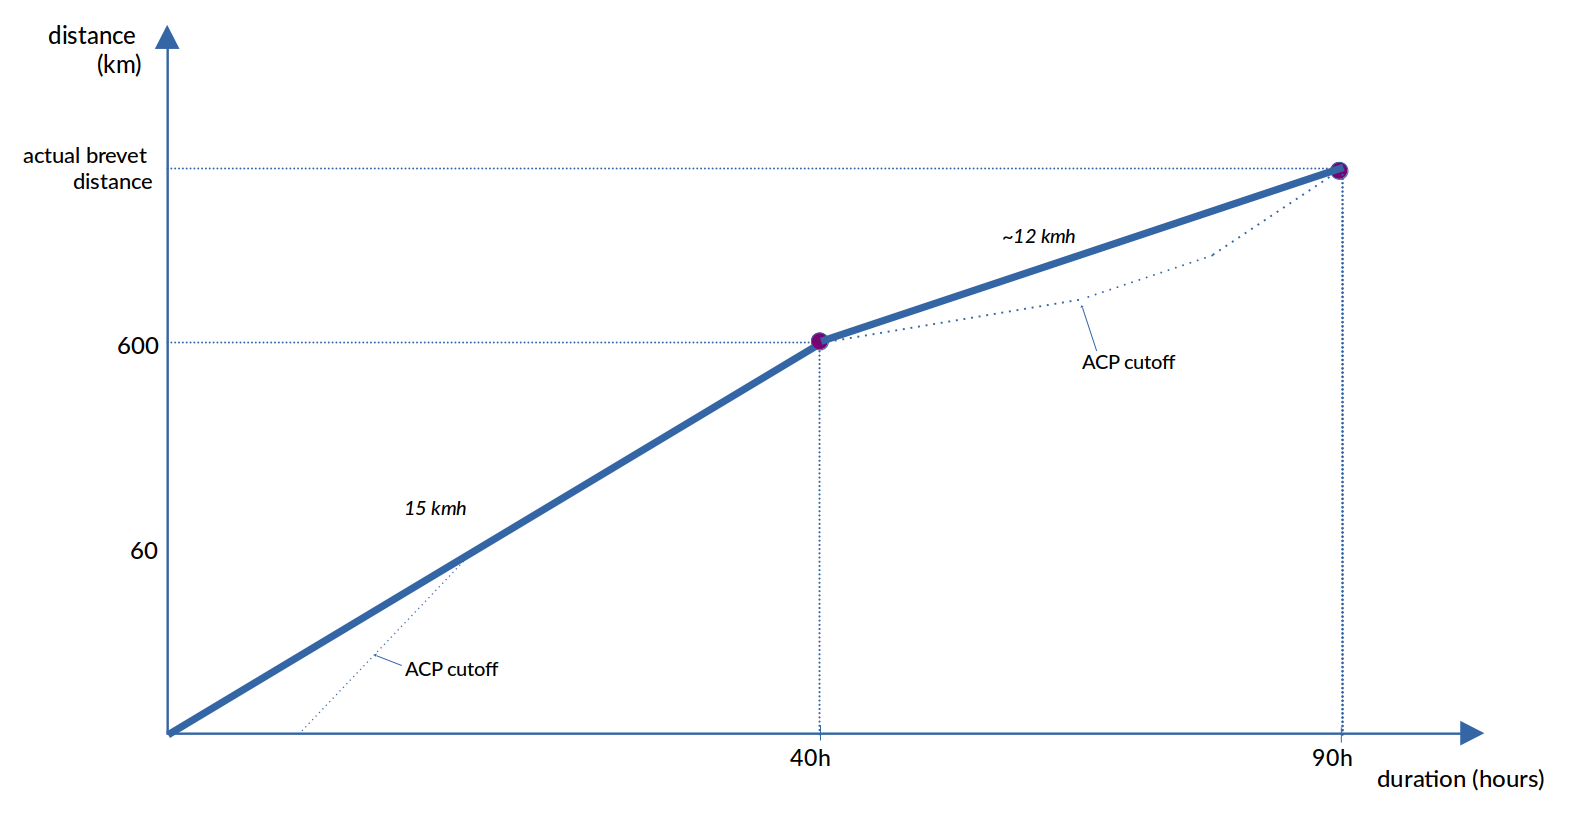
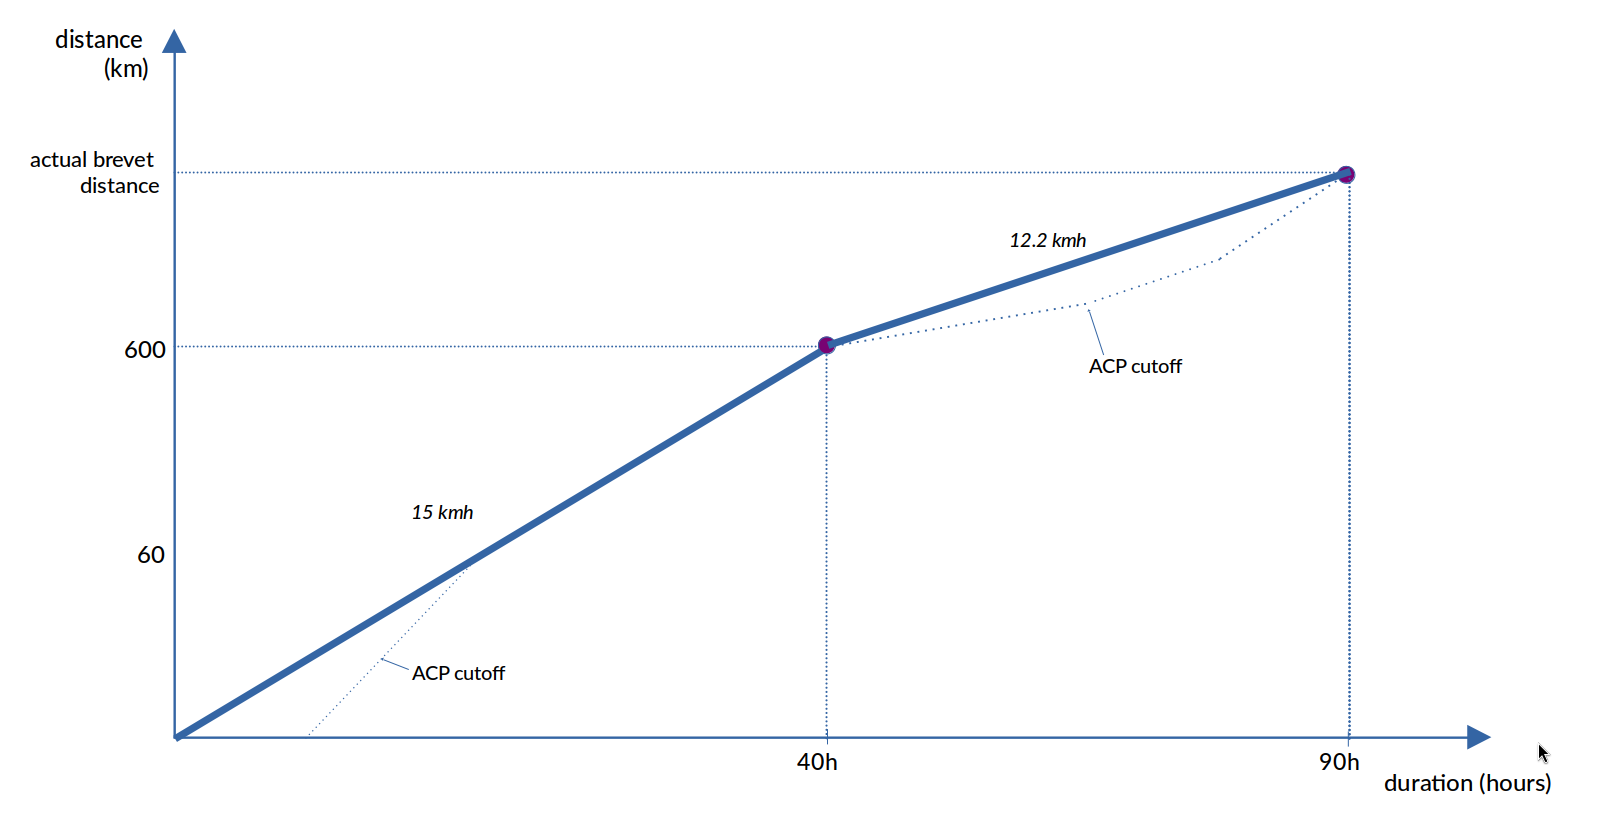
update documentation: chatgpt smoothing

diff --git a/docs/UI.md b/docs/UI.md
@@ -1,81 +1,96 @@
-# WPX frontend
+# WPX Frontend
 
 ![](./images/overview.png)
 
 ### Set Time Parameters
 
-  - **Start Time:** Set the date and time. An accurate start date helps label the days correctly on the elevation profile for rides passing midnight.
-  - **Speed:** The speed controls the cutoff time computation. It is set to 15.0 kmh by default. 
-  - **End Time:** This can be adjusted to match the official brevet cutoff. This will recalculate the average speed accordingly.
+- **Start Time:** Set the start date and time. An accurate start date ensures that days are labelled correctly on the elevation profile for rides that continue past midnight.
+- **Speed:** The speed parameter controls the cutoff-time calculation. The default value is 15.0 km/h.
+- **End Time:** This can be adjusted to match the official brevet cutoff. The average speed is then recalculated automatically.
 
-*Note: The computed closing times for each control may not perfectly match the official organization times, but they should be very close.*
+*Note: Computed control closing times may not exactly match the official organizer-provided times, but they should be quite close.*
 
-#### Speed/Cutoff times
+#### Speed / Cutoff Times
 
-The cutoff times are computed using the speed parameter. 
-There are two options:
+Cutoff times are calculated using the selected speed model.
+
+Two options are available:
 
 ![](./images/speed-dialog.png)
 
-- User-set overall average speed: this can be set to anything in the range 1-100kmh. 
-- ACP rules: the option is available if the total distance is within a 50-km margin of a nominal brevet distance (200, 300, 400, 600, 1000 and 1200 kilometers). This applies the [ACP (Audax Club Parisien) rules](https://www.audax-club-parisien.com/wp-content/uploads/2024/01/Rules-for-rider-2024.pdf). 
-- LRM rules: available if the total distance is longer than 1200 km. This applies the [LRM (Les Randonneurs Mondiaux) rules](https://www.randonneursmondiaux.org/files/Rules_2019.pdf).
+- **User-defined average speed:** Any value between 1 and 100 km/h can be specified.
+- **ACP rules:** Available when the total distance is within 50 km of a nominal brevet distance (200, 300, 400, 600, 1000, or 1200 km). This option appliesthe [ACP (Audax Club Parisien) rules](https://www.audax-club-parisien.com/wp-content/uploads/2024/01/Rules-for-rider-2024.pdf). 
+- **LRM rules:** Available for rides longer than 1200 km. This option applies the [LRM (Les Randonneurs Mondiaux) rules](https://www.randonneursmondiaux.org/files/Rules_2019.pdf).
 
-#### ACP Rules 
+#### ACP Rules
 
-The ACP rules are valid up to 1000 km, with an extension for the PBP.
+The ACP rules are defined for rides up to 1000 km, with a specific extension for Paris–Brest–Paris (PBP).
+
 They look simple at first sight ("15 kmh up to 600 km") but they are full of surprises. 
-- The start point has a cutoff: one hour after the start time. 
-- The speed in the range 1000-1200 km is 13.33 kmh, larger than in the range 600-1000 kmh. A rider cycling at "ACP speed" is expected to ride *faster* in the last 200 km of PBP.
-- Because the *actual* distance of a brevet mostly differs from its nominal distance, the speed between the last control and the end of the ride is special. 
-Example: Assuming a 630km long brevet (nominal 600km) with a last control at 570 km:
-  - the last control closes after 570/15=38 hours, and
-  - the end of the brevet must be reached after 40 hours.
 
-   Hence, the last 60 kilometers must be covered in 2 hours, at 30kmh. A rider with a 1-hour time-on-hand at the last control would have 1+2=3 hours to cover the last 60 km. 
+- The start control has a closing time of one hour after the official start.
+- The speed used between 1000 km and 1200 km is 13.33 km/h, which is higher than the speed used between 600 km and 1000 km. A rider following the ACP schedule is therefore expected to ride faster during the final 200 km of PBP.
+- Because the actual distance of a brevet usually differs from its nominal distance, the effective speed required between the last control and the finish can be significantly different from the nominal ACP speed.
 
-As you see, the ACP rules may not be appropriate to pace your ride. They may be rather interesting for comparison purposes. 
+Example: Consider a 630 km brevet with a nominal distance of 600 km and a last control at 570 km.
 
-Here is a diagram that summarizes the ACP rule for a 600 km brevet with actual distance 630 km:
+- The final control closes after 570 / 15 = 38 hours.
+- The brevet finish closes after 40 hours.
+
+   The final 60 km must therefore be completed within 2 hours, corresponding to an average speed of 30 km/h. A rider arriving at the final control with one hour in hand would have a total of 3 hours to complete the remaining 60 km.
+
+The following diagram summarizes the ACP rules for a 600 km brevet with an actual distance of 630 km:
+
 ![](./images/ACP-600-diagram.png)
 
-Here is a diagram that summarizes the ACP rule for a 1200 km brevet with actual distance 1230 km:
+The following diagram summarizes the ACP rules for a 1200 km brevet with an actual distance of 1230 km:
+
 ![](./images/ACP-diagram.png)
 
-#### LRM Rules 
+As you see, ACP closing times are not always suitable for pacing strategy. The ACP option may be rather be used for comparison purposes.
 
-The LRM rules are valid for rides longer than 1200 km.
-They are simpler than ACP rules and just define a fixed overall average speed.
-- from 1200 to 1299 km: 13.33 kmh
-- from 1300 to 1899 km: 12 kmh
-- from 1900 to 2499 km: 10 kmh
+#### LRM Rules
+
+The LRM rules apply to rides longer than 1200 km.
+
+They are simpler than the ACP rules and just define a fixed overall average speed:
+
+- 1200-1299 km: 13.33 km/h
+- 1300-1899 km: 12 km/h
+- 1900-2499 km: 10 km/h
 - 2500 km and above: 200 km per day
 
-In a 1200-km brevet with LRM rules, a control point at 600 km would close after 45h.
+For a 1200 km brevet using LRM rules, a control point at 600 km would close after 45 hours.
 
-### Control Custom Cutoff
+### Custom Control Cutoffs
 
-If the speed is a user-set overall average speed (first option), the control times can be set individually. 
+When a user-defined average speed is selected (first option in the speed dialog), individual control closing times can be set. This can be useful when a simpler and more predictable pacing model is preferred over the ACP rules or to model an individual pacing strategy.  Example using a PBP route:
 
-Example on a PBP track: set the speed to 13.35 kmh and adjust the end time to get 90h duration. 
-Then click on control time button:
+1. Set the speed to 13.35 km/h.
+2. Adjust the end time to obtain a total duration of 90 hours.
+3. Click the control-time button:
+
 ![](./images/control-time-button.png)
-This opens the control-time dialog, which allows you to modify the cutoff time: 
+
+This opens the control-time dialog:
+
 ![](./images/control-time-dialog.png)
 
-This is useful for longer brevet if you want a simpler and more predictable pacing than the ACP rules. In the example, the cutoff in Brest is set to 40h, the other controls are automatically spaced evenly. This is simpler and gets you to each control slightly before the official ACP cutoff:
+The dialog allows individual control cutoffs to be modified.
+
+The Brest control is assigned a cutoff of 40 hours, while all other controls are distributed evenly. This results in arrival targets that are slightly earlier than the official ACP closing times:
+
 ![](./images/ACP-simple-diagram.png)
 
-Of source, you may set your control times to fit your own personal strategy.
+Control times can also be customized to match an individual pacing strategy.
 
 ### Choose Point Types
 
-  - **Waypoints:** Original waypoints from the input GPX. If a waypoint matches a control point, it is merged into the control (and not shown as a separate waypoint). Control points can be created from waypoints with the control checkbox in the overview list (only on desktop).
-  - **OSM:** Names of cities, villages, and mountain passes. Only the most important OSM points are shown to keep the table readable (filtered by a minimum distance of 10% of the track/page length).
-  - **Cutoff:** These are shown as dots on the elevation profile and map, but are excluded from the tables.
+- **Waypoints:** Original waypoints from the input GPX file. If a waypoint coincides with a control point, it is merged into the control and is not displayed separately. Waypoints can be converted into controls using the control checkbox in the overview table (only on desktop).
+- **OSM:** Names of cities, villages, and mountain passes are derived from OpenStreetMap data. To maintain readability, only the most significant OSM points are displayed. A minimum spacing of 10% of the track/page length is applied.
+- **Cutoff:** Cutoff markers are displayed on the map and elevation profile but are excluded from the tables.
 
-### PDF
+### PDF Export
 
-  - Since two segments are printed on a single A4 page, you can select the number of pages in increments of 0.5 (e.g., 0.5, 1, 1.5, etc.).
-  - WPX attempts to generate segments covering round distances (like 100km) with a 10% overlap. Due to these constraints, the slider does not offer every page count.
-
+- Because two segments are printed on a single A4 page, the number of pages can be selected in increments of 0.5 (for example: 0.5, 1.0, 1.5, etc.).
+- WPX attempts to generate segments with rounded distances (for example, 100 km) while maintaining approximately 10% overlap between adjacent segments. Due to these constraints, not every page count is available through the slider.

diff --git a/README.md b/README.md
@@ -70,11 +70,6 @@ The "flat" segments without elevation data are useful to prevent devices like th
 GPS devices determine the "Next Waypoint" based on geographic proximity. For an out-and-back route (like Paris-Brest-Paris), your device might mistakenly show a point from the return journey while you are still on the outward journey. Loading `cutoff-1.gpx`  at the start, and `cutoff-2.gpx` on the way back works around that problem. 
 But mid-ride file transfers are a gamble you don't want to take with frozen fingers or a dying battery. You can choose your preferred strategy, using either `cutoff-all.gpx` or the separated `cutoff-1.gpx` and `cutoff-2.gpx`.
 
----
-## Known Issues
-
-- OSM download takes too long for very long tracks, like one-way 1000km brevets. 
-
 ----
 
 ## HOW TO BUILD
